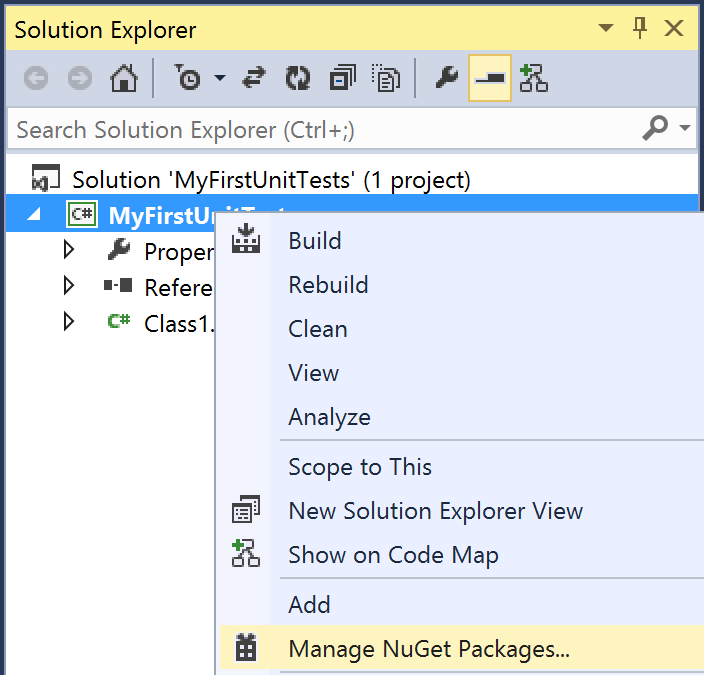
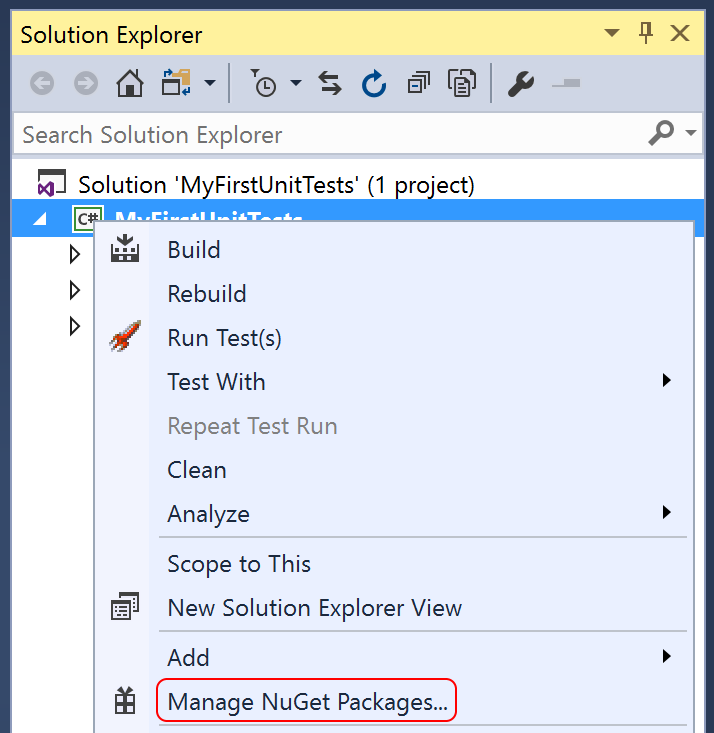
Update docs/getting-started-desktop.html for 2.2

diff --git a/docs/getting-started-desktop.html b/docs/getting-started-desktop.html
@@ -24,18 +24,19 @@ redirect_from: "/docs/getting-started.html"
 </ul>
 
 <p><em>
-  Note: The examples were done with xUnit.net v2.1. The version numbers
-  and paths may differ for you, depending on which version you're using.
+  Note: The examples were done with xUnit.net v2.2 and Visual Studio 2017. The version
+  numbers, paths, and Visual Studio UI may differ for you, depending on which
+  version you're using.
 </em></p>
 
 <h2 id="create-class-library">Create a class library project</h2>
 
 <p>
-  Let's start by creating a class library project, targeting .NET 4.5 (or later).
+  Let's start by creating a class library project, targeting .NET 4.5.2 (or later).
   Open Visual Studio, and choose <code>File &gt; New &gt; Project</code>:
 </p>
 
-<p><img class="border" src="../images/getting-started/new-project.png" width="791" /></p>
+<p><img class="border" src="../images/getting-started/new-project.png" width="835" /></p>
 
 <h2 id="add-xunit-ref">Add a reference to xUnit.net</h2>
 
@@ -44,17 +45,18 @@ redirect_from: "/docs/getting-started.html"
   <code>Manage NuGet Packages</code>:
 </p>
 
-<p><img class="border" src="../images/manage-nuget-packages.png" width="352" /></p>
+<p><img class="border" src="../images/manage-nuget-packages.png" width="357" /></p>
 
 <p>Now in the NuGet package manager window, take the following steps:</p>
 
 <ol>
-  <li>On the left side, ensure <code>nuget.org</code> is selected under <code>Online</code></li>
-  <li>In the search box in the upper right corner, type <code>xunit</code></li>
+  <li>Along the top edge, make sure <code>Browse</code> is selected.</li>
+  <li>On the upper right side, ensure <code>nuget.org</code> is selected under <code>Package source</code></li>
+  <li>In the search box, type <code>xunit</code></li>
   <li>Select the <code>xUnit.net</code> package, and click <code>Install</code></li>
 </ol>
 
-<p><img class="border" src="../images/add-xunit.png" width="791" /></p>
+<p><img class="border" src="../images/add-xunit.png" width="845" /></p>
 
 <p>
   This package (<code>xunit</code>) is what's called a <em>meta-package</em>;
@@ -68,12 +70,12 @@ redirect_from: "/docs/getting-started.html"
 {% highlight xml %}
 <?xml version="1.0" encoding="utf-8"?>
 <packages>
-  <package id="xunit" version="2.1.0" targetFramework="net45" />
-  <package id="xunit.abstractions" version="2.0.0" targetFramework="net45" />
-  <package id="xunit.assert" version="2.1.0" targetFramework="net45" />
-  <package id="xunit.core" version="2.1.0" targetFramework="net45" />
-  <package id="xunit.extensibility.core" version="2.1.0" targetFramework="net45" />
-  <package id="xunit.extensibility.execution" version="2.1.0" targetFramework="net45" />
+  <package id="xunit" version="2.2.0" targetFramework="net452" />
+  <package id="xunit.abstractions" version="2.0.1" targetFramework="net452" />
+  <package id="xunit.assert" version="2.2.0" targetFramework="net452" />
+  <package id="xunit.core" version="2.2.0" targetFramework="net452" />
+  <package id="xunit.extensibility.core" version="2.2.0" targetFramework="net452" />
+  <package id="xunit.extensibility.execution" version="2.2.0" targetFramework="net452" />
 </packages>
 {% endhighlight %}
 
@@ -126,7 +128,7 @@ namespace MyFirstUnitTests
   (and install) a package named <code>xunit.runner.console</code>:
 </p>
 
-<p><img class="border" src="../images/getting-started/add-xunit-runner-console.png" width="820" /></p>
+<p><img class="border" src="../images/getting-started/add-xunit-runner-console.png" width="845" /></p>
 
 <p>
   Unlike the previous package (which added references to the unit testing
@@ -149,21 +151,20 @@ namespace MyFirstUnitTests
 </p>
 
 <pre>
-&gt; <span style="background-color: #ff0">packages\xunit.runner.console.2.1.0\tools\xunit.console MyFirstUnitTests\bin\Debug\MyFirstUnitTests.dll</span>
-xUnit.net console test runner (64-bit .NET 4.0.30319.34014)
-Copyright (C) 2016 .NET Foundation.
-
-Starting: MyFirstUnitTests.dll
-   <span style="color: #e03030">MyFirstUnitTests.Class1.FailingTest [FAIL]</span>
+&gt; <span style="background-color: #ff0">packages\xunit.runner.console.2.2.0\tools\xunit.console MyFirstUnitTests\bin\Debug\MyFirstUnitTests.dll</span>
+xUnit.net Console Runner (64-bit .NET 4.0.30319.42000)
+  Discovering: MyFirstUnitTests
+  Discovered:  MyFirstUnitTests
+  Starting:    MyFirstUnitTests
+    <span style="color: #e03030">MyFirstUnitTests.Class1.FailingTest [FAIL]</span>
       Assert.Equal() Failure
       Expected: 5
       Actual:   4
       <span style="color: #a8a8a8">Stack Trace:</span>
-         MyFirstUnitTests\Class1.cs(16,0): at MyFirstUnitTests.Class1.FailingTest()
-Finished: MyFirstUnitTests.dll
-
+        MyFirstUnitTests\Class1.cs(16,0): at MyFirstUnitTests.Class1.FailingTest()
+  Finished:    MyFirstUnitTests
 === TEST EXECUTION SUMMARY ===
-   MyFirstUnitTests.DLL  Total: 2, Failed: 1, Skipped: 0, Time: 0.165s, Errors: 0
+   MyFirstUnitTests  Total: 2, Errors: 0, Failed: 1, Skipped: 0, Time: 0.159s
 </pre>
 
 <p><em>
@@ -233,24 +234,25 @@ bool IsOdd(int value)
 </p>
 
 <pre>
-xUnit.net console test runner (64-bit .NET 4.0.30319.34014)
-Copyright (C) 2016 .NET Foundation.
-
-Starting:  MyFirstUnitTests.dll
-   <span style="color: #e03030">MyFirstUnitTests.Class1.FailingTest [FAIL]</span>
+xUnit.net Console Runner (64-bit .NET 4.0.30319.42000)
+  Discovering: MyFirstUnitTests
+  Discovered:  MyFirstUnitTests
+  Starting:    MyFirstUnitTests
+    <span style="color: #e03030">MyFirstUnitTests.Class1.MyFirstTheory(value: 6) [FAIL]</span>
+      Assert.True() Failure
+      Expected: True
+      Actual:   False
+      <span style="color: #a8a8a8">Stack Trace:</span>
+        MyFirstUnitTests\Class1.cs(30,0): at MyFirstUnitTests.Class1.MyFirstTheory(Int32 value)
+    <span style="color: #e03030">MyFirstUnitTests.Class1.FailingTest [FAIL]</span>
       Assert.Equal() Failure
       Expected: 5
       Actual:   4
       <span style="color: #a8a8a8">Stack Trace:</span>
-         MyFirstUnitTests\Class1.cs(16,0): at MyFirstUnitTests.Class1.FailingTest()
-   <span style="color: #E03030">MyFirstUnitTests.Class1.MyFirstTheory(value: 6) [FAIL]</span>
-      Assert.True() Failure
-      <span style="color: #a8a8a8">Stack Trace:</span>
-         MyFirstUnitTests\Class1.cs(30,0): at MyFirstUnitTests.Class1.MyFirstTheory(Int32 value)
-Finished: MyFirstUnitTests.dll
-
+        MyFirstUnitTests\Class1.cs(16,0): at MyFirstUnitTests.Class1.FailingTest()
+  Finished:    MyFirstUnitTests
 === TEST EXECUTION SUMMARY ===
-   MyFirstUnitTests.DLL  Total: 5, Failed: 2, Skipped: 0, Time: 0.176s, Errors: 0
+   MyFirstUnitTests  Total: 5, Errors: 0, Failed: 2, Skipped: 0, Time: 0.171s
 </pre>
 
 <p>
@@ -291,7 +293,7 @@ Finished: MyFirstUnitTests.dll
   Search for (and install) a package named <code>xunit.runner.visualstudio</code>:
 </p>
 
-<p><img class="border" src="../images/running-tests-in-vs/add-xunit-runner-visualstudio.png" width="868" /></p>
+<p><img class="border" src="../images/running-tests-in-vs/add-xunit-runner-visualstudio.png" width="981" /></p>
 
 <p>
   Make sure Test Explorer is visible (go to <code>Test &gt; Windows &gt; Test Explorer</code>). Every
@@ -299,42 +301,23 @@ Finished: MyFirstUnitTests.dll
   discovery, you should see the list of discovered tests:
 </p>
 
-<p><img class="border" src="../images/running-tests-in-vs/test-explorer.png" width="330" /></p>
+<p><img class="border" src="../images/running-tests-in-vs/test-explorer.png" width="314" /></p>
 
 <p>
   Click the <code>Run All</code> link in the Test Explorer window, and you should see the results update
   in the Test Explorer window as the tests are run:
 </p>
 
-<p><img class="border" src="../images/running-tests-in-vs/test-explorer-post-run.png" width="330" /></p>
+<p><img class="border" src="../images/running-tests-in-vs/test-explorer-post-run.png" width="347" /></p>
 
 <p>
   You can click on a failed test to see the failure message, and the stack trace. You can click on the
   stack trace lines to take you directly to the failing line of code.
 </p>
 
-<p>
-  If you have Visual Studio Ultimate and you have the CodeLens feature turned on, your source code will
-  now show icons and text related to your tests:
-</p>
-
-<p><img class="border" src="../images/running-tests-in-vs/code-lens.png" width="224" /></p>
-
-<p>
-  CodeLens not only shows you the last run status of your unit tests, it also offers a convenient
-  place to click to run an individual test.
-</p>
-
 <p><em>
   Note: Only xUnit.net v2 supports pre-enumeration of theories; when discovering theories with v1,
   it will only show a single test method for the theory.
-</em></p>
-
-<p><em>
-  Note: CodeLens does not support icons for pre-enumerated theories; this is a limitation of the Visual
-  Studio test runner. In a future release, we will enable the ability to turn off theory pre-enumeration
-  of theory data for users who would prefer to have the CodeLens icons rather than individually
-  runnable tests.
 </em></p>
 
 <h2 id="console-return-codes">Console runner return codes</h2>

diff --git a/docs/test-migration.html b/docs/test-migration.html
@@ -43,14 +43,14 @@ breadcrumb: Documentation
       on the project in Solution Explorer, and then choosing the
       <code>Manage NuGet Packages...</code> menu item:
     </p>
-    <p><img class="border" src="/images/manage-nuget-packages.png" width="352" /></p>
+    <p><img class="border" src="/images/manage-nuget-packages.png" width="357" /></p>
   </li>
   <li>
     <p>
-      Click on <code>Online</code> on the left side. In the search box on the upper
+      Click on <code>Browse</code> in the upper left corner. In the search box on the upper
       right, type <code>xunit</code>. The search should yield results like this:
     </p>
-    <p><img class="border" src="/images/add-xunit.png" width="791" /></p>
+    <p><img class="border" src="/images/add-xunit.png" width="845" /></p>
   </li>
   <li>
     <p>Locate the xUnit.net entry, and click <code>Install</code>.</p>
@@ -65,24 +65,24 @@ breadcrumb: Documentation
       Right click on the project in Solution Explorer, and then choose the
       <code>Manage NuGet Packages...</code> menu item:
     </p>
-    <p><img class="border" src="/images/manage-nuget-packages.png" width="352" /></p>
+    <p><img class="border" src="/images/manage-nuget-packages.png" width="357" /></p>
   </li>
   <li>
     <p>
-      Click on <code>Installed packages</code> on the left side. If you see
+      Click on <code>Installed</code> along the top. If you see
       <code>xUnit.net: Extensions</code> installed, please click the
       <code>Uninstall</code> button. (If NuGet offers to uninstall the
       <code>xunit</code> package for you, you should decline. You're going to
       upgrade that package in the next step.)
     </p>
-    <p><img class="border" src="/images/test-migration/uninstall-extensions.png" width="791" /></p>
+    <p><img class="border" src="/images/test-migration/uninstall-extensions.png" width="982" /></p>
   </li>
   <li>
     <p>
-      Click on <code>Updates</code> on the left side. Locate <code>xUnit.net</code>
+      Click on <code>Updates</code> along the top. Locate <code>xUnit.net</code>
       in the list of packages, and click <code>Update</code>:
     </p>
-    <p><img class="border" src="/images/test-migration/update-xunit.png" width="791" /></p>
+    <p><img class="border" src="/images/test-migration/update-xunit.png" width="981" /></p>
   </li>
 </ol>
 
